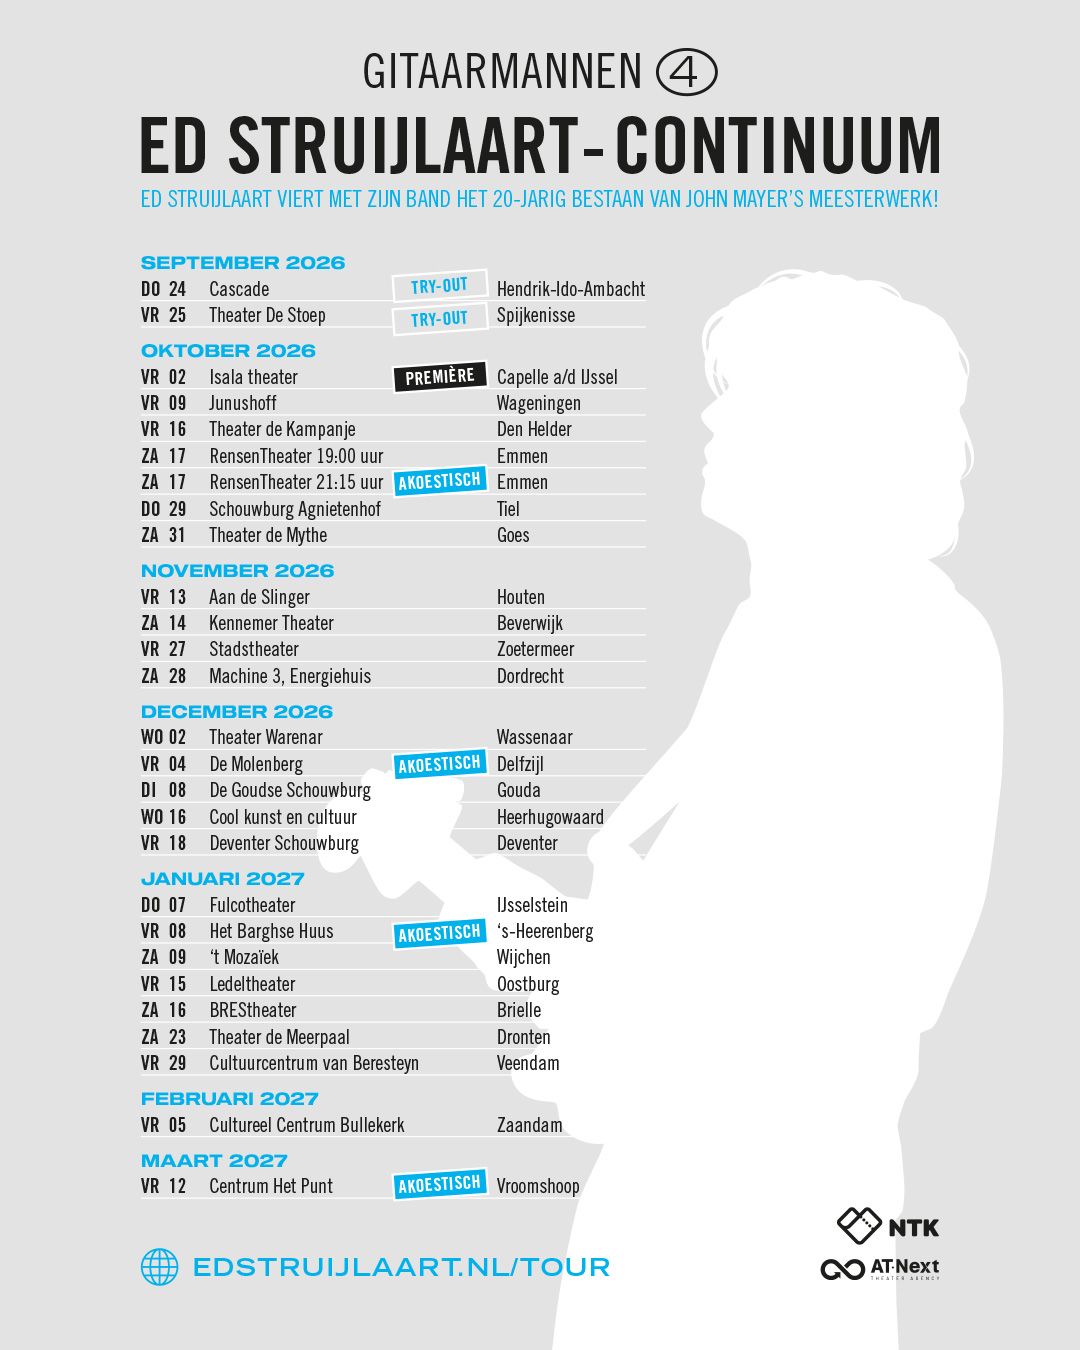
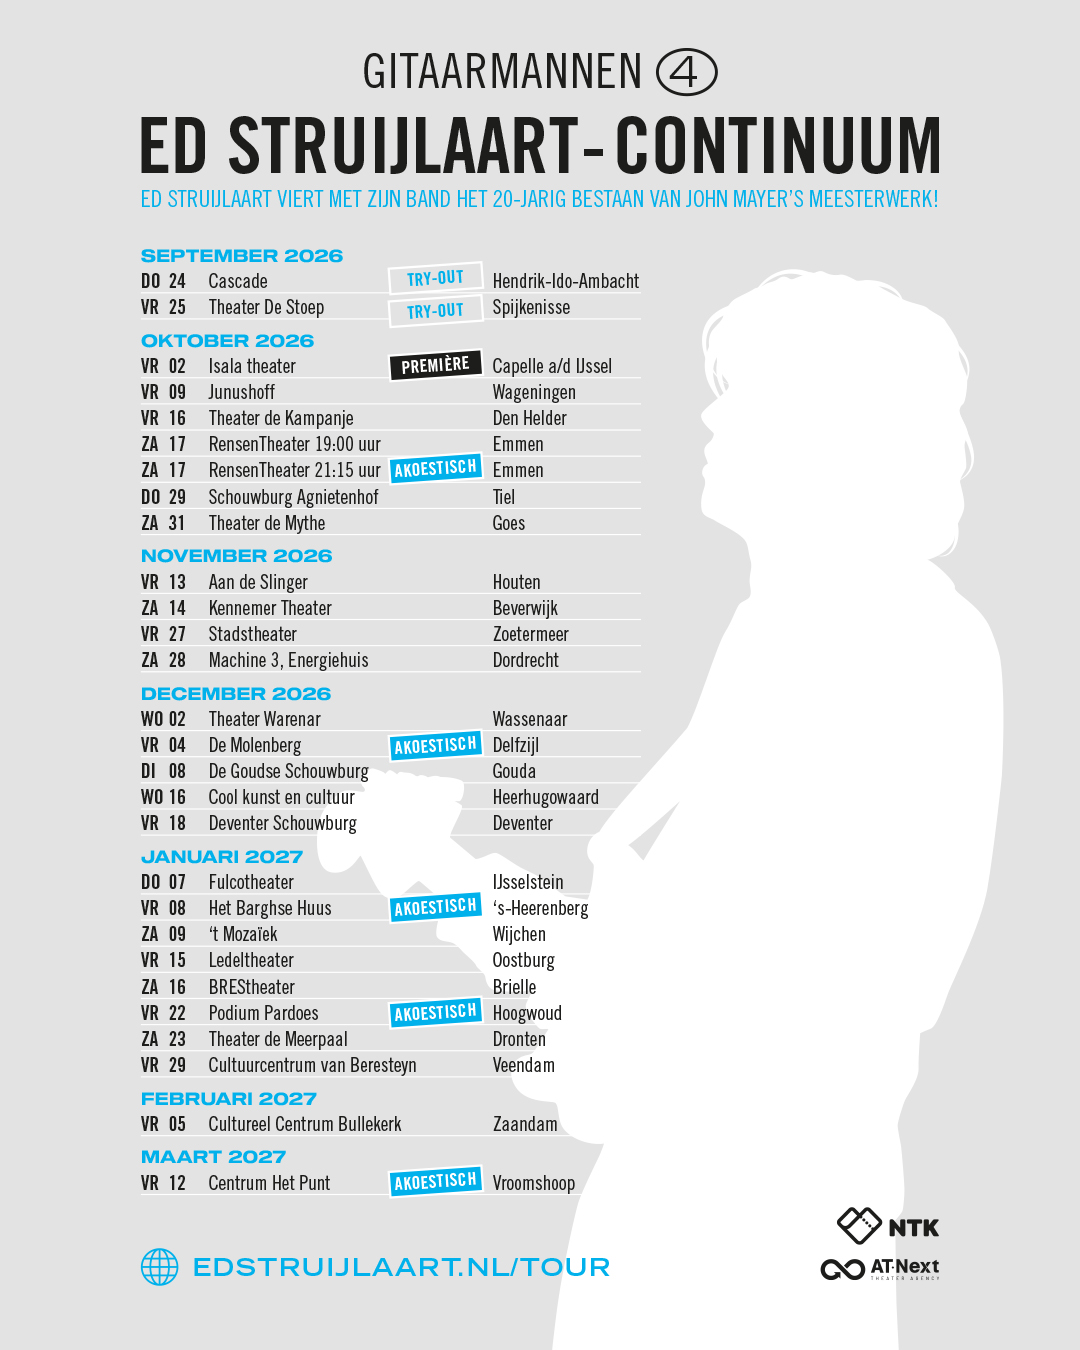
Theater-QR: leid uit bron + tijdstip af bij welke show iemand was
De QR in de zaal gaat naar de GM3-funnel met ?utm_source=theater, maar die
bron bleef in de browser hangen. Nu gaat hij mee naar de server, die er samen
met de speellijst uit afleidt welke voorstelling het was. Zo hoeft niemand
zelf een stad in te vullen (een veld minder = meer aanmeldingen) en vullen de
per-show-lijsten in Listmonk zich vanzelf.

Bewust streng: alleen bij bron=theater, alleen binnen een venster van drie uur
voor aanvang tot zes uur erna, en bij twijfel geen label. Een verkeerd label
kost later een misplaatste mailing.

Twee bugs die de toets ving: de zomertijd-detectie vergeleek hele datumstrings
in plaats van de zone-offset (alles schoof een uur), en Emmen met twee shows op
één avond gooide iedereen bij de vroege voorstelling.

Changed region(s): [[0.1222, 0.1867, 0.6111, 0.9022], [0.3361, 0.84, 0.55, 0.9022]]

diff --git a/src/lib/show-uit-tijdstip.ts b/src/lib/show-uit-tijdstip.ts
@@ -1,0 +1,86 @@
+import { shows, type Show } from "../data/shows";
+
+/**
+ * Welke show was iemand die zich nú aanmeldt via de theater-QR?
+ *
+ * De QR hangt in de zaal en komt aan het begin en het eind in beeld. Wie hem
+ * scant is dus op dat moment in dat theater, en de speellijst staat vast. Zo
+ * hoeft niemand zelf in te vullen waar hij was: één veld minder op het
+ * formulier is meetbaar meer aanmeldingen.
+ *
+ * Bewust streng. Een verkeerd label is erger dan geen label: dan mailt Ed
+ * volgend seizoen iemand over "toen je me in Wassenaar zag" terwijl die
+ * persoon in Deventer zat. Vandaar:
+ *  - alleen als de aanmelding aantoonbaar uit het theater komt (bron=theater),
+ *  - alleen binnen een venster rond de voorstelling,
+ *  - bij twijfel niets.
+ *
+ * Het venster loopt van drie uur voor aanvang (zaal open, mensen zitten al aan
+ * de bar) tot zes uur 's ochtends erna (de scan op de bank na afloop). Shows
+ * liggen dagen uit elkaar, dus overlap kan alleen bij twee voorstellingen op
+ * één avond — Emmen, 17 oktober. Daar splitst het op het tijdstip zelf.
+ */
+
+const UUR = 60 * 60 * 1000;
+const VOOR_AANVANG = 3 * UUR;
+const NA_AANVANG = 9.5 * UUR; // 20:30 + 9,5u = 06:00 de volgende ochtend
+
+/** Aanvangstijd van een show als echt tijdstip, in Nederlandse tijd. */
+function aanvang(show: Show): Date | null {
+  if (!show.time) return null;
+  // De site draait op Vercel in UTC. Nederland is +2 in de zomertijd en +1 in
+  // de wintertijd; de tour loopt over de omschakeling van 25 oktober heen, dus
+  // dat moet per show berekend worden en niet één keer hardgecodeerd.
+  const [uur, minuut] = show.time.split(":").map(Number);
+  const lokaal = new Date(`${show.date}T${show.time}:00Z`);
+  const offset = nederlandseOffsetUren(lokaal);
+  return new Date(Date.UTC(
+    lokaal.getUTCFullYear(), lokaal.getUTCMonth(), lokaal.getUTCDate(),
+    uur - offset, minuut, 0));
+}
+
+/** +2 in de zomertijd, +1 in de wintertijd. Leest de echte zone-offset. */
+function nederlandseOffsetUren(moment: Date): number {
+  const deel = new Intl.DateTimeFormat("en-US", {
+    timeZone: "Europe/Amsterdam", timeZoneName: "shortOffset",
+  }).formatToParts(moment).find((p) => p.type === "timeZoneName");
+  const treffer = deel?.value.match(/GMT([+-]\d{1,2})/);
+  return treffer ? Number(treffer[1]) : 1;
+}
+
+export interface ShowTreffer {
+  show: Show;
+  listmonkUuid: string;
+}
+
+/**
+ * Zoek de show die bij dit moment hoort. Geeft null als er geen is, of als er
+ * geen twijfelvrije keuze te maken valt.
+ */
+export function showOpMoment(moment: Date = new Date()): ShowTreffer | null {
+  const t = moment.getTime();
+  const kandidaten = shows
+    .filter((s) => s.listmonkUuid && s.time)
+    .map((s) => ({ show: s, start: aanvang(s) }))
+    .filter((k): k is { show: Show; start: Date } => k.start !== null)
+    .filter((k) => {
+      const start = k.start.getTime();
+      return t >= start - VOOR_AANVANG && t <= start + NA_AANVANG;
+    });
+
+  if (kandidaten.length === 0) return null;
+  if (kandidaten.length === 1) {
+    return { show: kandidaten[0].show,
+             listmonkUuid: kandidaten[0].show.listmonkUuid! };
+  }
+
+  // Twee voorstellingen op één avond (Emmen 17 okt, 19:00 en 21:15): kies de
+  // laatste die al begonnen is. Wie tijdens de vroege show scant krijgt die,
+  // wie na aanvang van de late show scant krijgt de late.
+  const begonnen = kandidaten
+    .filter((k) => t >= k.start.getTime())
+    .sort((a, b) => b.start.getTime() - a.start.getTime());
+  const keuze = begonnen[0] ?? kandidaten
+    .sort((a, b) => a.start.getTime() - b.start.getTime())[0];
+  return { show: keuze.show, listmonkUuid: keuze.show.listmonkUuid! };
+}

diff --git a/src/pages/api/gm3-funnel.ts b/src/pages/api/gm3-funnel.ts
@@ -10,6 +10,7 @@ import {
   isProvincie,
 } from "../../data/gm3-funnel";
 import { buildWelcomeEmail } from "../../lib/gm3-welcome-email";
+import { showOpMoment } from "../../lib/show-uit-tijdstip";
 
 // Aanmelding voor de gratis GM3-registratie (funnel naar GM4 Continuum).
 // Aangeroepen vanaf gitaarmannen.nl/john-mayer (cross-origin, vandaar CORS).
@@ -43,7 +44,7 @@ export const POST: APIRoute = async ({ request }) => {
       headers: { "Content-Type": "application/json", ...cors },
     });
 
-  let body: { email?: string; name?: string; provincie?: string };
+  let body: { email?: string; name?: string; provincie?: string; bron?: string };
   try {
     body = await request.json();
   } catch {
@@ -53,6 +54,7 @@ export const POST: APIRoute = async ({ request }) => {
   const email = (body.email || "").trim();
   const name = (body.name || "").trim();
   const provincie = (body.provincie || "").trim();
+  const bron = (body.bron || "").trim();
 
   if (!/^[^\s@]+@[^\s@]+\.[^\s@]+$/.test(email)) {
     return json({ error: "Vul een geldig e-mailadres in." }, 400);
@@ -62,6 +64,15 @@ export const POST: APIRoute = async ({ request }) => {
   }
 
   const listUuids = listUuidsVoorProvincie(provincie);
+
+  // Kwam deze aanmelding uit de zaal (QR-code op het scherm, of de flyer)?
+  // Dan weten we uit de speellijst welke show het was, en hoeft de bezoeker dat
+  // niet zelf in te vullen. Alleen bij bron=theater, want een online-aanmelding
+  // die toevallig tijdens een voorstelling binnenkomt is géén bezoeker.
+  const treffer = bron === "theater" ? showOpMoment() : null;
+  if (treffer && !listUuids.includes(treffer.listmonkUuid)) {
+    listUuids.push(treffer.listmonkUuid);
+  }
 
   // 1) Inschrijven in Listmonk (public API, single opt-in, geen auth nodig)
   try {
